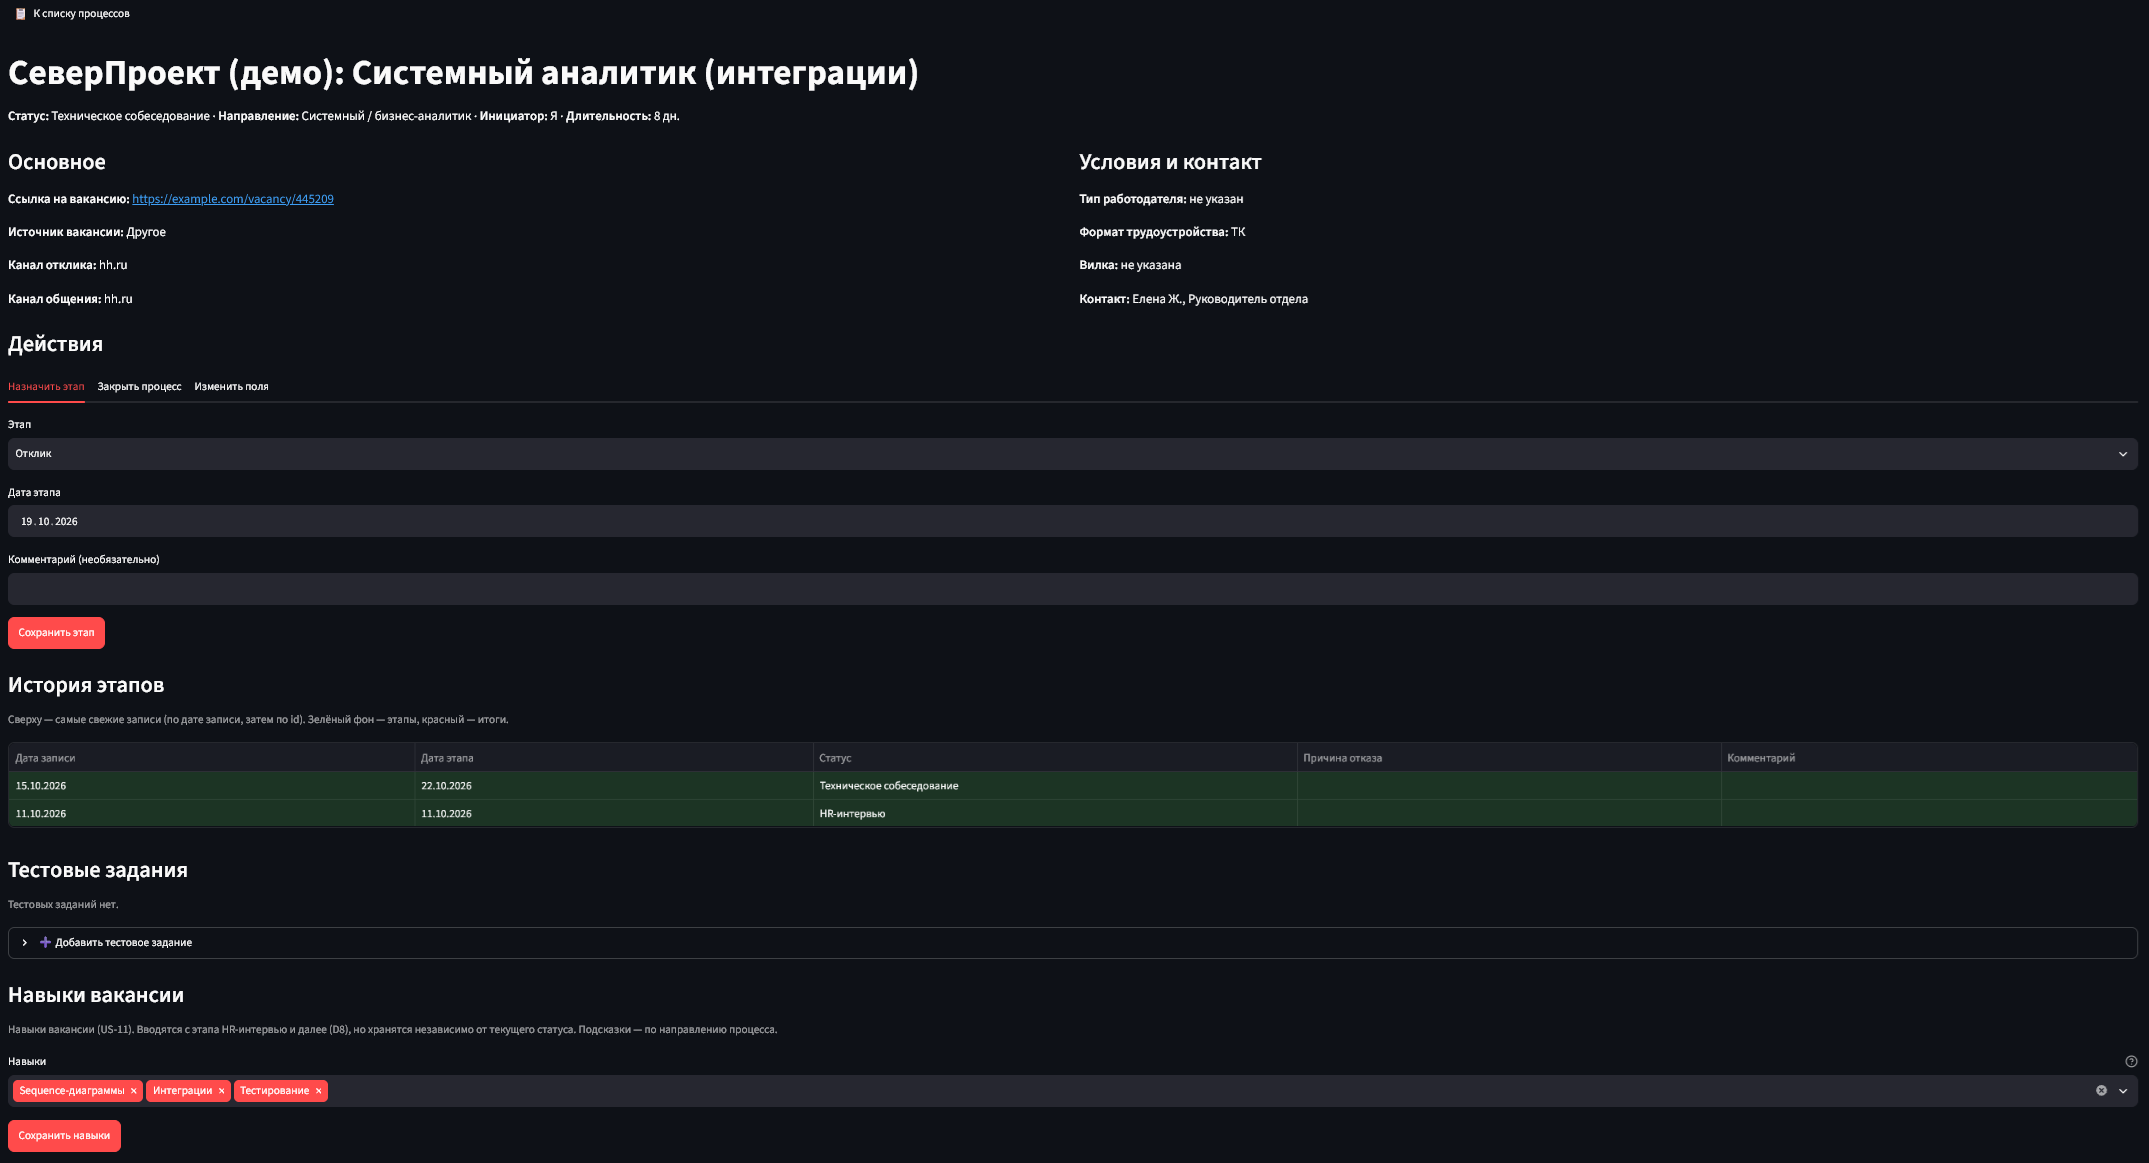
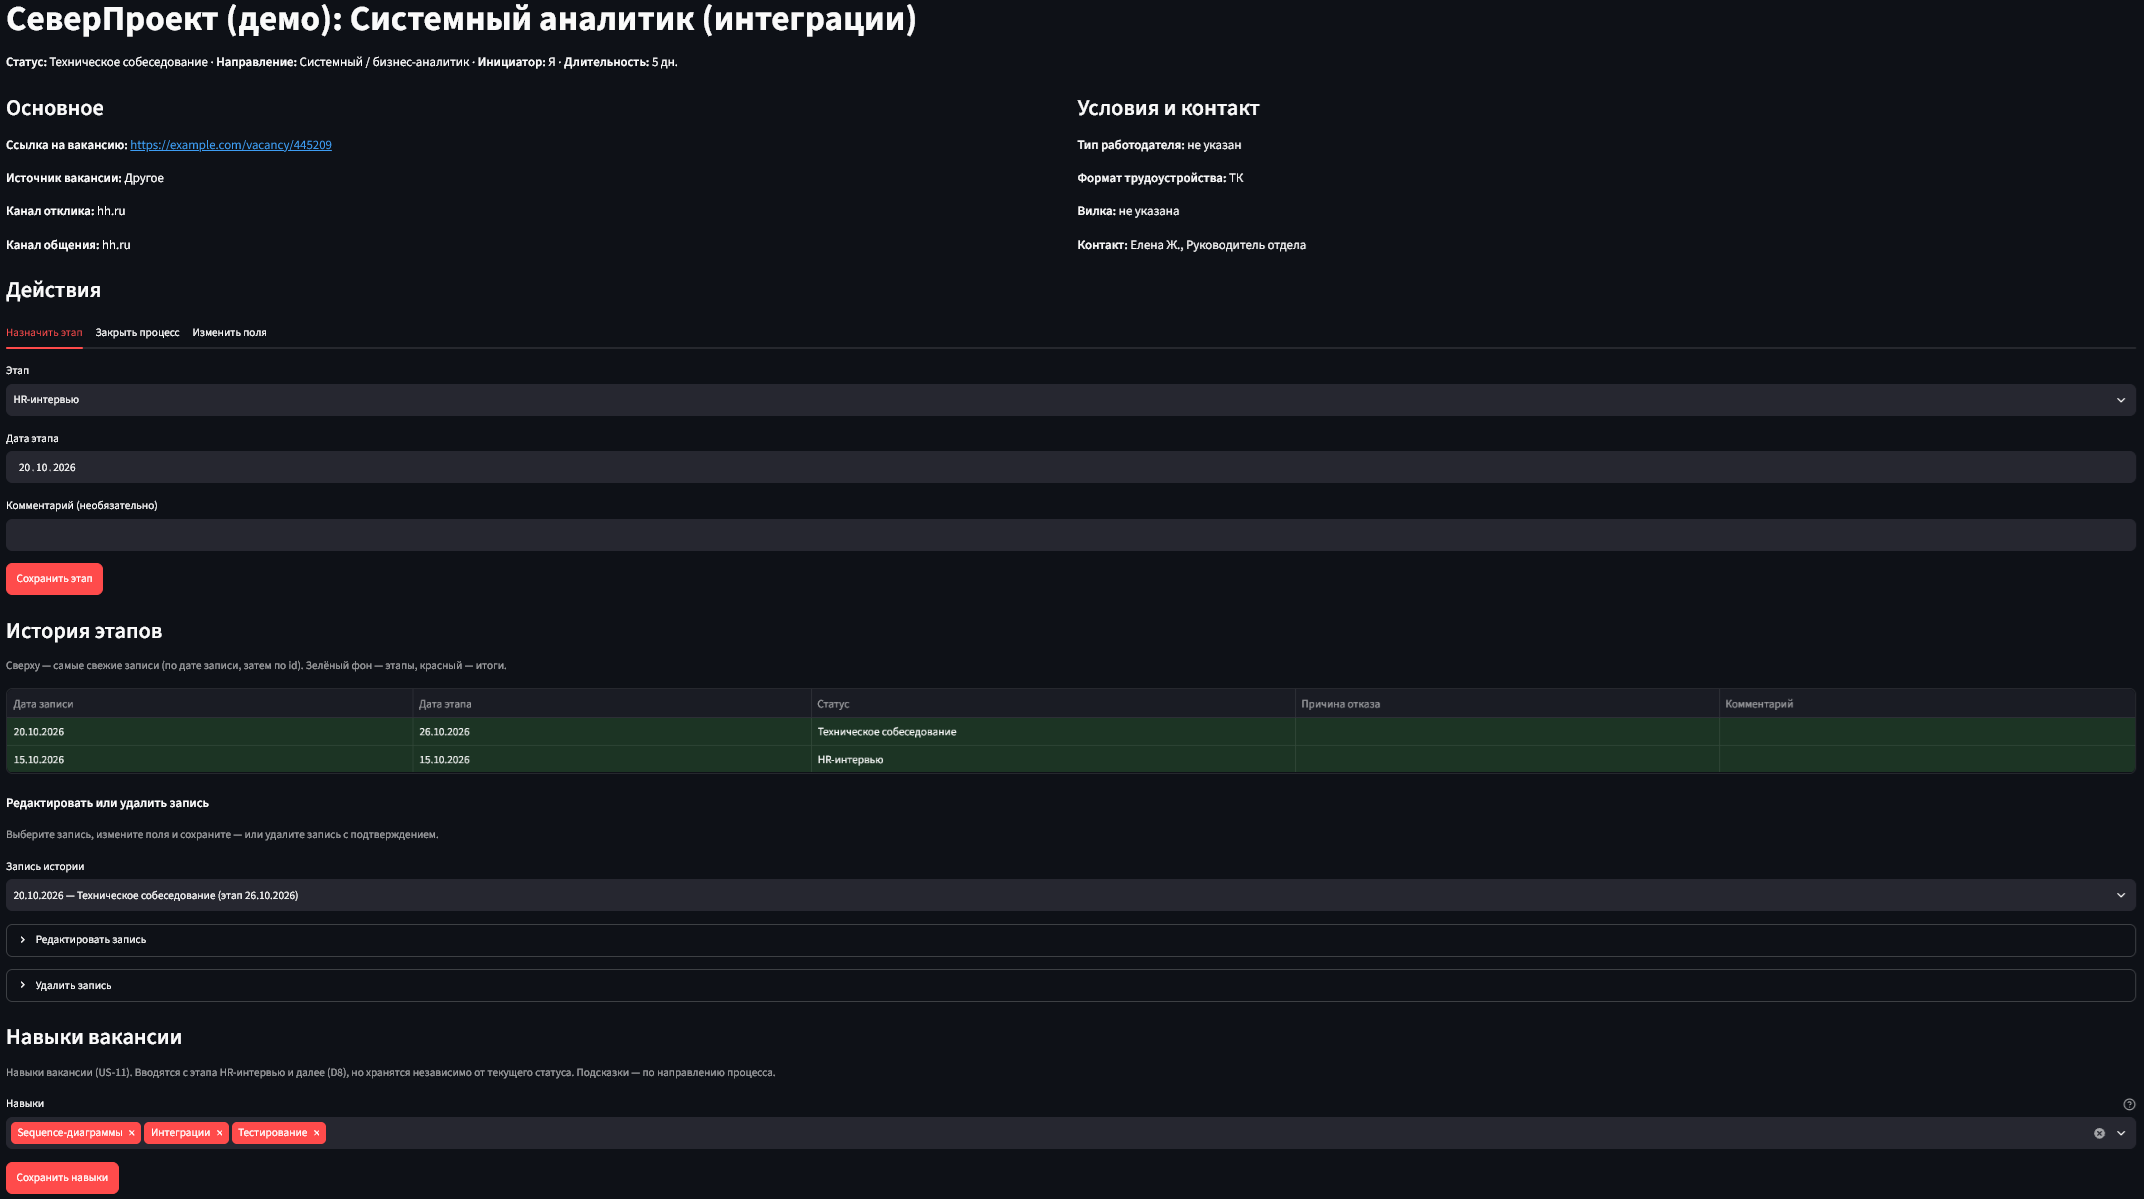
fix(job-crm): обновлен РИДМИ

Changed region(s): [[0.0, 0.0, 1.0, 1.0], [0.5, 0.0619, 0.5938, 0.2786]]

diff --git a/projects/06-job-search-crm/README.md b/projects/06-job-search-crm/README.md
@@ -12,7 +12,7 @@
 
 ## Статус
 
-**MVP выпущен** (релиз 1.0.1, 16.10.2026). Приложение и дашборд работают: создание процесса, список с фильтрами, карточка с действиями, профиль навыков, напоминания и аналитический дашборд. Документация: руководство администратора, руководство пользователя, FAQ, глоссарий, стайлгайд, журнал изменений. BPMN v2.x — в Mermaid.
+**MVP выпущен** (релиз 2.0.0, 20.10.2026). Приложение и дашборд работают: создание процесса, список с фильтрами, карточка с действиями, профиль навыков, напоминания и аналитический дашборд. В версии 2.0.0 тестовое задание стало обычным этапом отбора (ADR-002), добавлены редактирование и удаление записей истории. Документация: руководство администратора, руководство пользователя, FAQ, глоссарий, стайлгайд, журнал изменений. BPMN v2.x — в Mermaid.
 
 Историю версий продукта см. в [журнале изменений](docs/user-docs/05-changelog.md).
 
